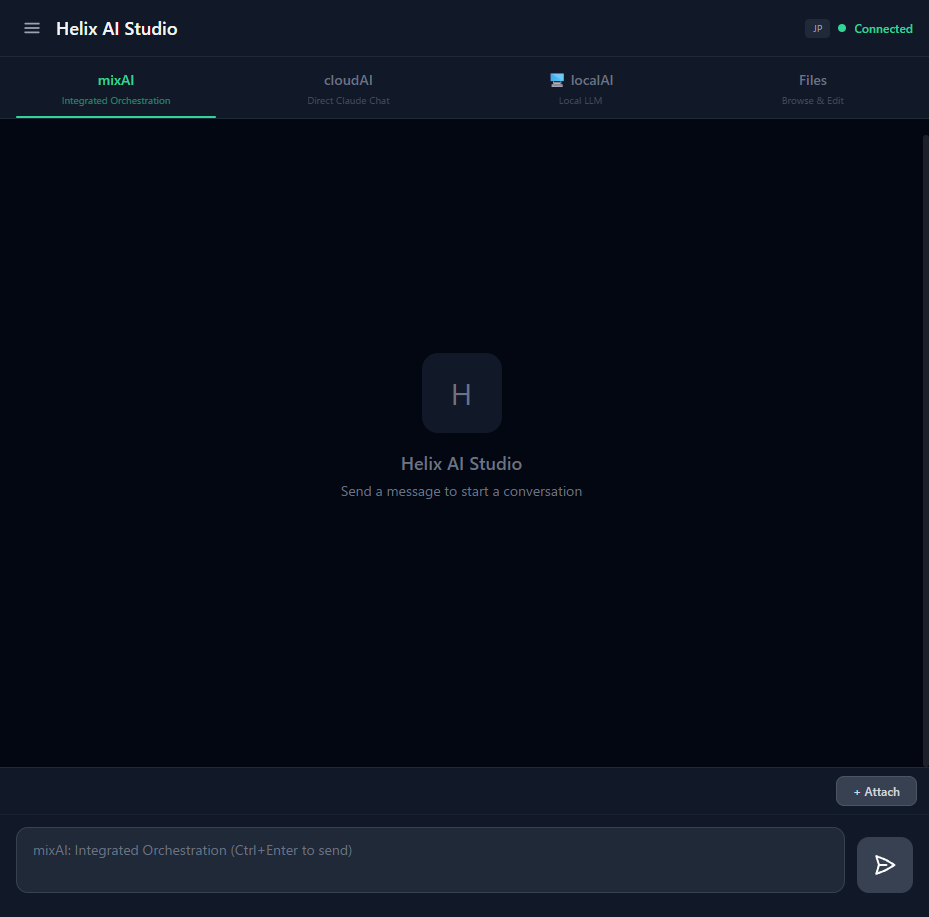
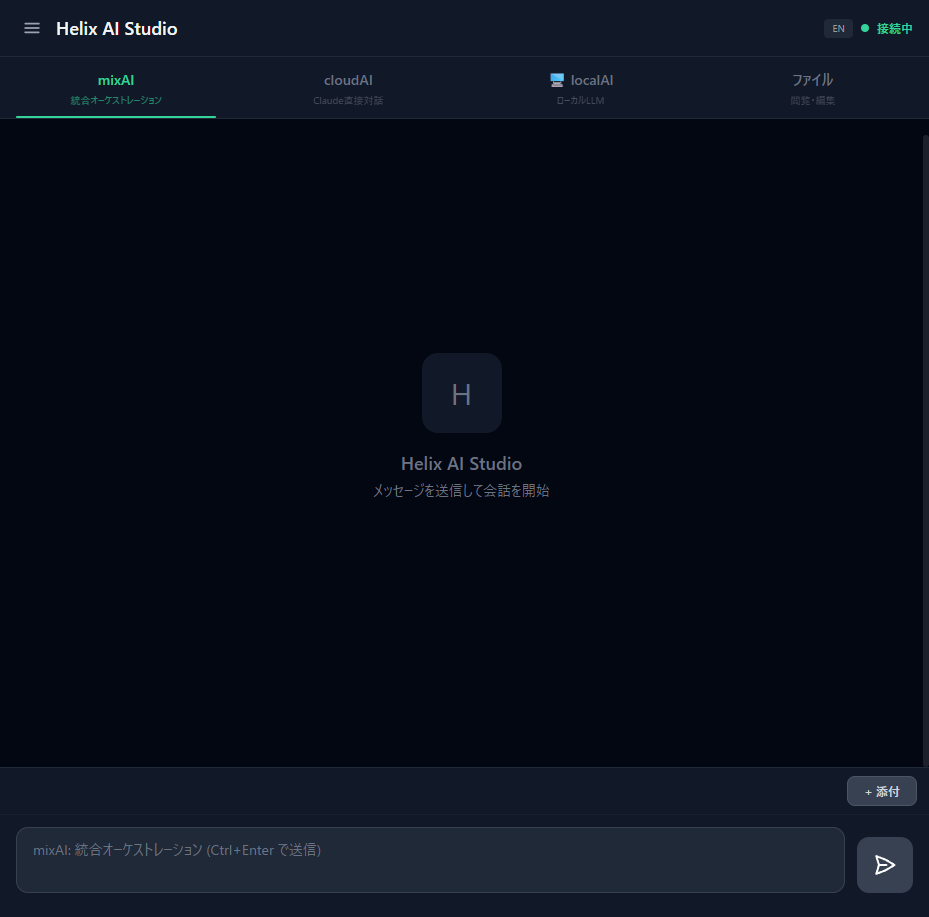
v11.9.4 docs: add fresh session captures + expand screenshot gallery
- Replace docs/demo/ assets with screenshots captured in this session
- Add cloudai_chat, mixai_complete, localai_multimodel, discord_settings
- Add webui_english, webui_files for Web UI showcase
- Expand screenshot gallery in both EN/JA READMEs (6 → 11 screenshots)

🤖 Generated with [Claude Code](https://claude.com/claude-code)

diff --git a/README_ja.md b/README_ja.md
@@ -124,20 +124,35 @@ python HelixAIStudio.py
 ### パイプラインモニター -- AIの動作をリアルタイムで監視
 ![パイプラインモニター](docs/demo/mixai_monitor.png)
 
+### パイプライン完了 -- PASS/FAIL検証済みの最終出力
+![パイプライン完了](docs/demo/mixai_complete.png)
+
+### Claude Sonnetチャット -- クラウドAIとの直接対話
+![Claudeチャット](docs/demo/cloudai_chat.png)
+
 ### Gemini APIチャット -- マルチプロバイダー対応
 ![Geminiチャット](docs/demo/gemini_chat.png)
 
-### ローカルAIチャット（gemma3）
+### ローカルAIチャット（gemma3） -- マルチモデル切替
 ![ローカルAIチャット](docs/demo/desktop_localai_chat.png)
+
+### マルチモデル会話 -- チャットの途中でモデルを切り替え
+![マルチモデル](docs/demo/localai_multimodel.png)
 
 ### RAGナレッジベース -- 知識の構築と検索
 ![RAG構築](docs/demo/rag_build.png)
 
-### 設定画面 -- すべてカスタマイズ可能
+### 設定画面 -- APIキー、テーマ、自動化設定
 ![設定](docs/demo/desktop_settings.png)
 
 ### Web UI -- スマホからチャット
 ![Web UIチャット](docs/demo/webui_chat.png)
+
+### Web UI（英語） -- 完全なi18n対応
+![Web UI英語](docs/demo/webui_english.png)
+
+### Web UIファイルブラウザ -- プロジェクトファイルの閲覧・転送
+![Web UIファイル](docs/demo/webui_files.png)
 
 </details>
 

diff --git a/README.md b/README.md
@@ -124,20 +124,35 @@ Most AI tools give you a chat window with one model. Helix gives you a **pipelin
 ### Pipeline Monitor -- Watch your AIs work in real time
 ![Pipeline Monitor](docs/demo/mixai_monitor.png)
 
+### Pipeline Complete -- Validated output with PASS/FAIL checks
+![Pipeline Complete](docs/demo/mixai_complete.png)
+
+### Claude Sonnet Chat -- Cloud AI direct conversation
+![Claude Chat](docs/demo/cloudai_chat.png)
+
 ### Gemini API Chat -- Multi-provider support
 ![Gemini Chat](docs/demo/gemini_chat.png)
 
-### Local AI Chat with gemma3
+### Local AI Chat with gemma3 -- Multi-model switching
 ![Local AI Chat](docs/demo/desktop_localai_chat.png)
+
+### Multi-Model Conversation -- Switch between models mid-chat
+![Multi-Model](docs/demo/localai_multimodel.png)
 
 ### RAG Knowledge Base -- Build and search your own knowledge
 ![RAG Build](docs/demo/rag_build.png)
 
-### Settings -- Everything is configurable
+### Settings -- API keys, themes, and automation
 ![Settings](docs/demo/desktop_settings.png)
 
 ### Web UI -- Chat from your phone
 ![Web UI Chat](docs/demo/webui_chat.png)
+
+### Web UI (English) -- Full i18n support
+![Web UI English](docs/demo/webui_english.png)
+
+### Web UI File Browser -- Browse and transfer project files
+![Web UI Files](docs/demo/webui_files.png)
 
 </details>
 
